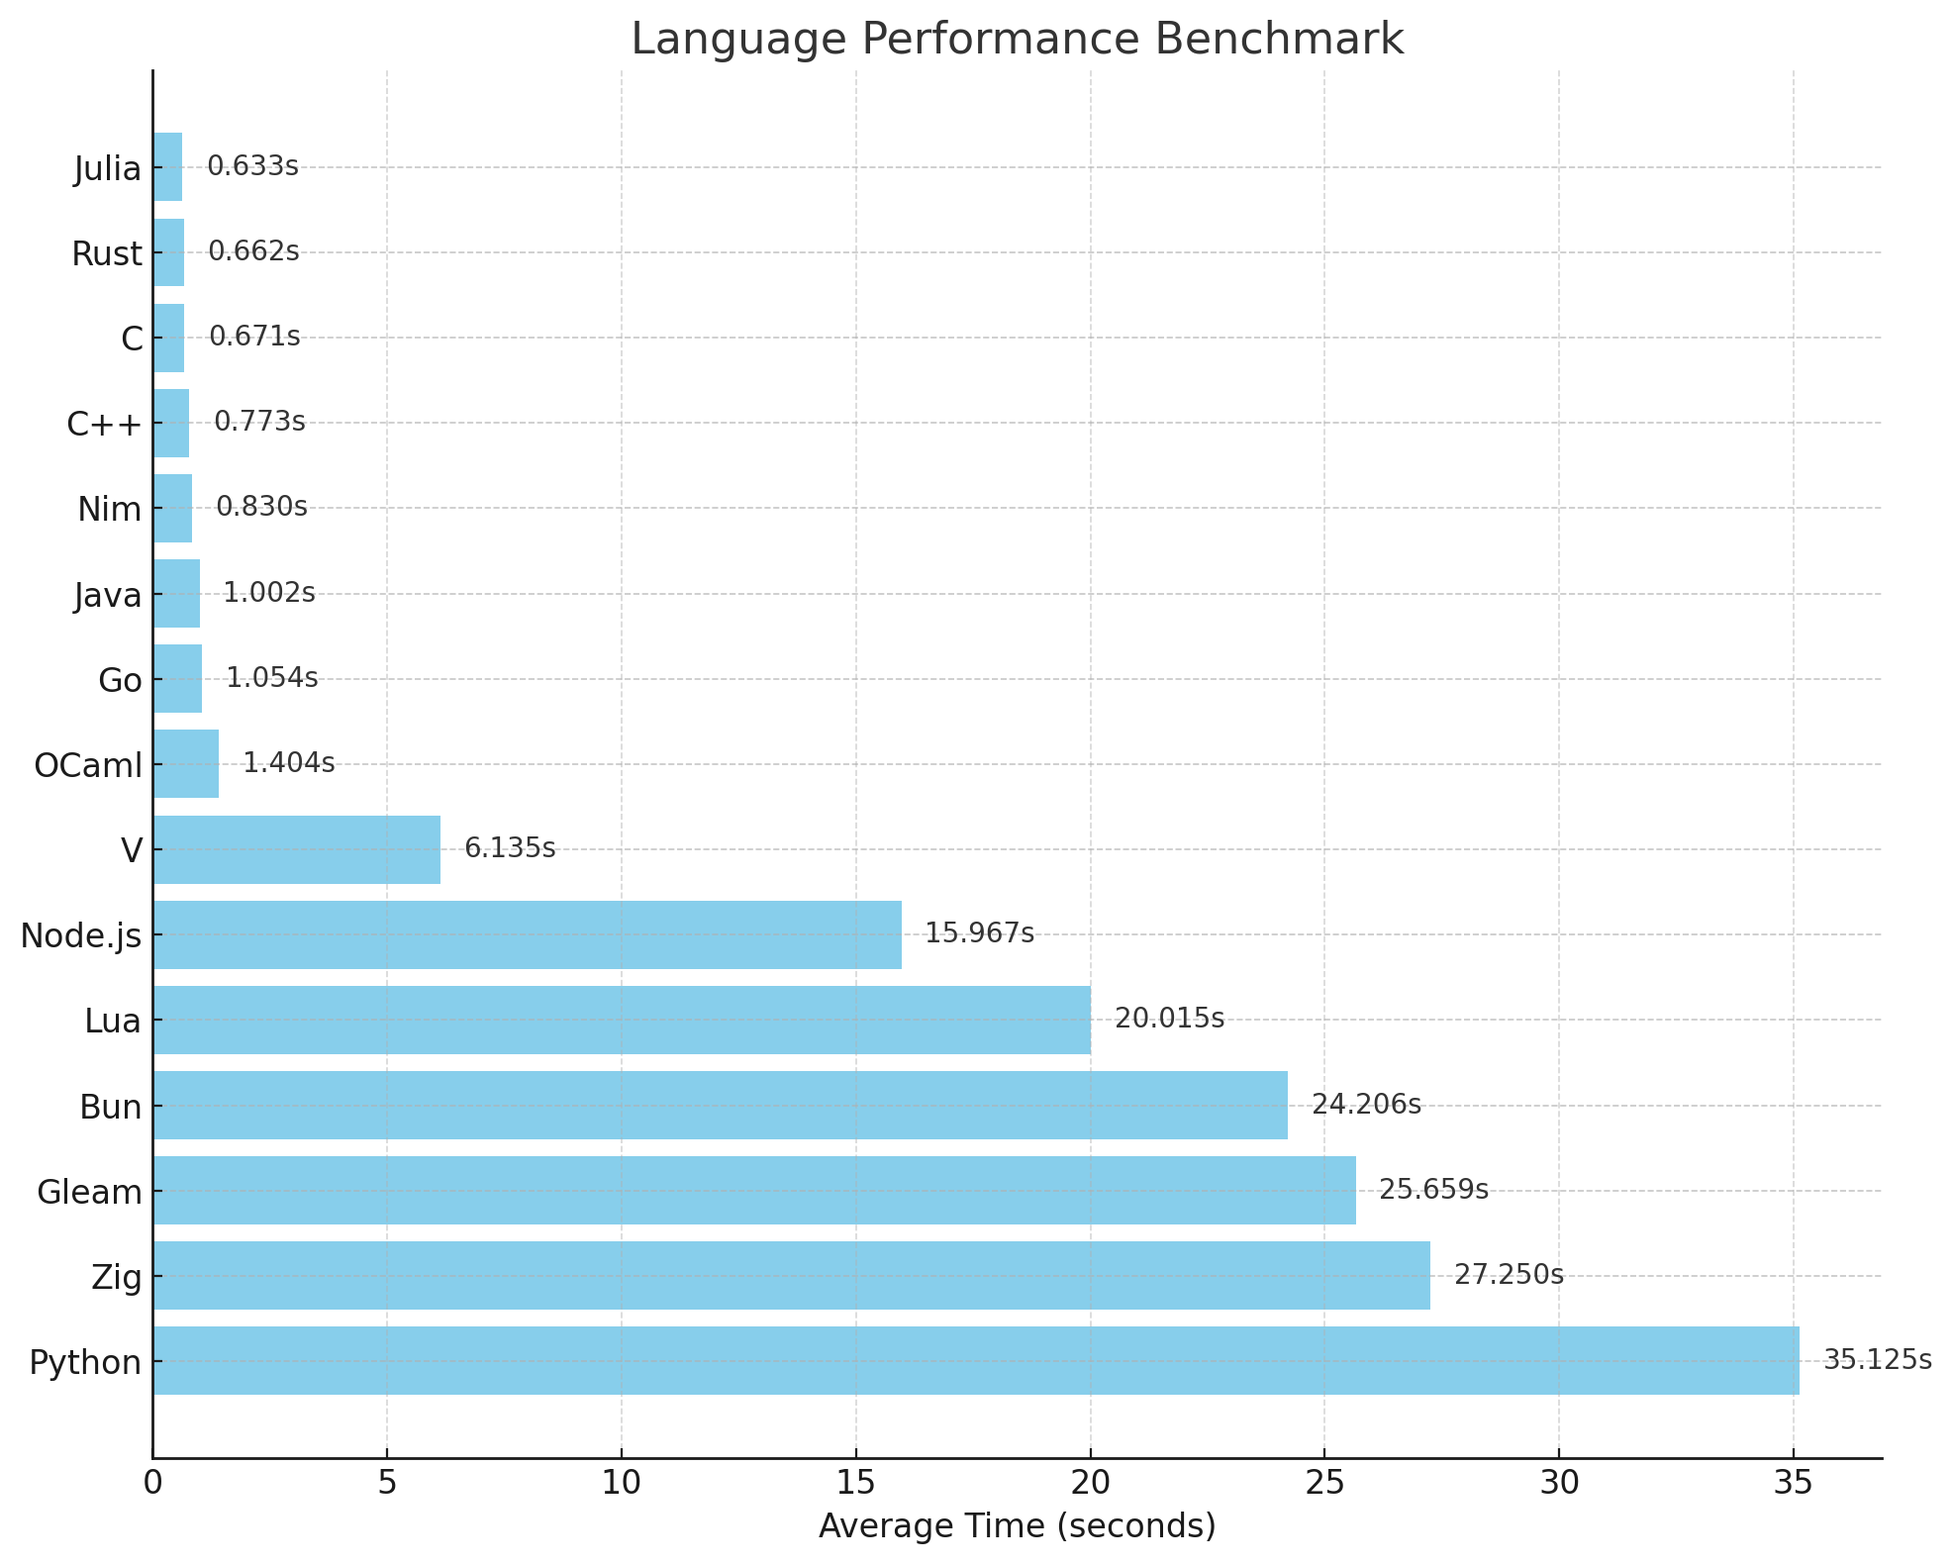
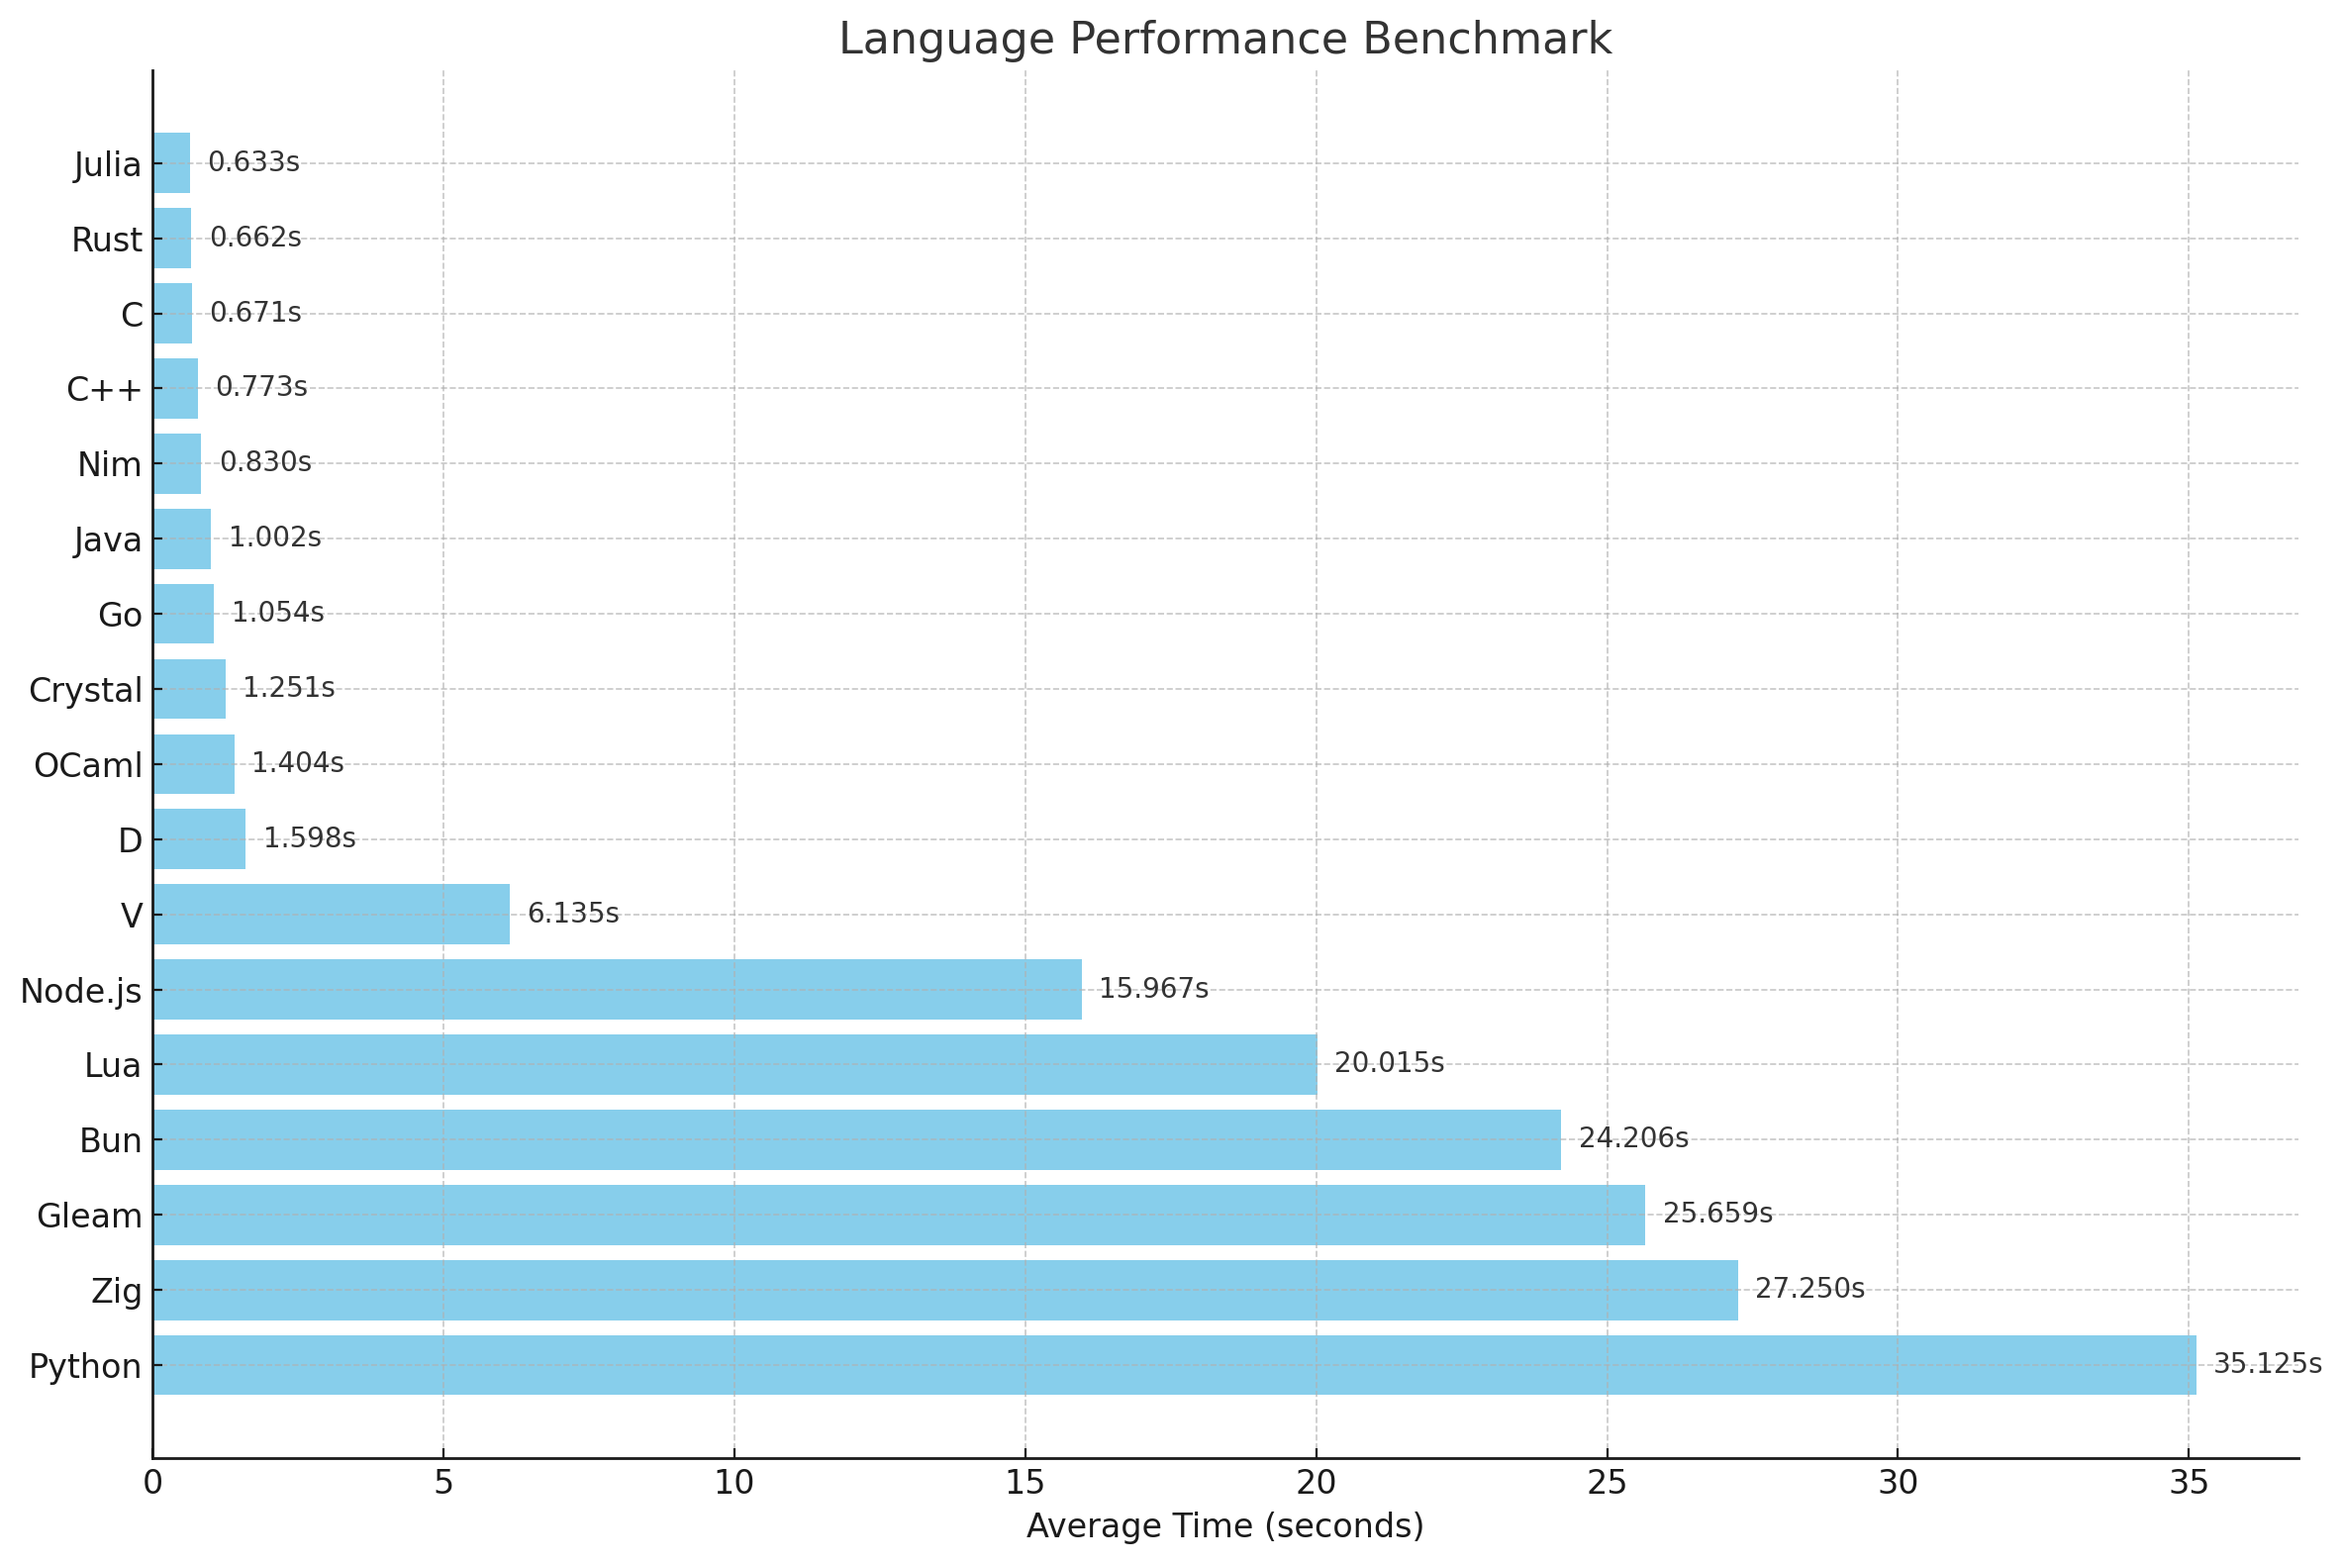
update

diff --git a/readme.md b/readme.md
@@ -5,36 +5,18 @@ This document contains performance benchmarks for a compute-heavy task across mu
 ## Test Environment
 - **OS**: Linux
 - **Shell**: /bin/zsh
-- **Compiler Versions**:
-  - **GCC**: 15.1.1
-  - **Rust**: 1.82.0
-  - **Go**: 1.24.5
-  - **Java**: OpenJDK 17.0.16
-  - **Crystal**: 1.16.3 (LLVM 20.1.8)
-  - **D**: DMD 2.111.0
-  - **Julia**: 1.11.6
-  - **Nim**: (with ORC memory management)
-  - **OCaml**: 5.3.0
-  - **Gleam**: 1.11.1
-  - **V**: (production build)
-  - **Zig**: (ReleaseFast optimization)
-  - **Node.js**: Latest LTS
-  - **Bun**: 1.2.19
-  - **Python**: 3.x
-  - **Lua**: 5.4.8
-
 - **Optimization Flags Used**:
   - Rust: `cargo build --release` (with opt-level = 3, lto = true, codegen-units = 1)
-  - V: `v run` (production flags not available in this version)
+  - V: `v -prod -autofree`
   - C: `gcc -O3 -march=native -flto compute_heavy.c -o compute_heavy`
   - C++: `g++ -O3 -march=native -flto -std=c++17 compute_heavy.cpp -o compute_heavy`
   - Go: `go build -ldflags="-s -w" -gcflags="-m=0" compute_heavy.go`
   - Zig: `zig build-exe -O ReleaseFast compute_heavy.zig`
   - Java: `javac ComputeHeavy.java` then `java -server ComputeHeavy`
-  - Crystal: `crystal build --release compute_heavy.cr`
-  - D: `dmd -O -release -inline compute_heavy.d`
   - Nim: `nim c -d:release -d:danger --opt:speed compute_heavy.nim`
   - OCaml: `ocamlopt -I +unix unix.cmxa compute_heavy.ml -o compute_heavy`
+  - D: `dmd -O -release -inline`
+  - Crystal: `crystal build --release`
   - Gleam: `gleam run` (compiles to optimized Erlang bytecode)
   - Python: n/a (interpreted)
   - Node.js: n/a (JIT compiled)
@@ -47,8 +29,8 @@ This document contains performance benchmarks for a compute-heavy task across mu
 | Language | Time (nanoseconds) | Time (seconds) | Result Hash | Command Used |
 |----------|-------------------|----------------|-------------|--------------|
 | Julia    | 630150515         | 0.630          | 3053422219705032040 | julia compute_heavy.jl |
-| C        | 689625489         | 0.690          | 3053422219705032040 | gcc -O3 -march=native -flto && ./compute_heavy |
-| Rust     | 727689556         | 0.728          | 3053422219705032040 | cargo run --release |
+| Rust     | 661568716         | 0.662          | 3053422219705032040 | cargo run --release |
+| C        | 671187717         | 0.671          | 3053422219705032040 | gcc -O3 -march=native -flto && ./compute_heavy |
 | C++      | 768818563         | 0.769          | 3053422219705032040 | g++ -O3 -march=native -flto && ./compute_heavy |
 | Nim      | 832013222         | 0.832          | 3053422219705032040 | nim c -d:release -d:danger --opt:speed && ./compute_heavy |
 | Go       | 1042926248        | 1.043          | 3053422219705032040 | go run compute_heavy.go |
@@ -68,8 +50,8 @@ This document contains performance benchmarks for a compute-heavy task across mu
 | Language | Time (nanoseconds) | Time (seconds) | Result Hash | Command Used |
 |----------|-------------------|----------------|-------------|--------------|
 | Julia    | 650164745         | 0.650          | 3053422219705032040 | julia compute_heavy.jl |
-| C        | 718944939         | 0.719          | 3053422219705032040 | ./compute_heavy |
-| Rust     | 731390818         | 0.731          | 3053422219705032040 | ./target/release/compute_heavy |
+| Rust     | 648879790         | 0.649          | 3053422219705032040 | ./target/release/compute_heavy |
+| C        | 681702637         | 0.682          | 3053422219705032040 | ./compute_heavy |
 | C++      | 764223101         | 0.764          | 3053422219705032040 | ./compute_heavy |
 | Nim      | 839007379         | 0.839          | 3053422219705032040 | ./compute_heavy |
 | Java     | 999388287         | 0.999          | 3053422219705032040 | java -server ComputeHeavy |
@@ -89,8 +71,8 @@ This document contains performance benchmarks for a compute-heavy task across mu
 | Language | Time (nanoseconds) | Time (seconds) | Result Hash | Command Used |
 |----------|-------------------|----------------|-------------|--------------|
 | Julia    | 619624049         | 0.620          | 3053422219705032040 | julia compute_heavy.jl |
-| C        | 701568972         | 0.702          | 3053422219705032040 | ./compute_heavy |
-| Rust     | 718929861         | 0.719          | 3053422219705032040 | ./target/release/compute_heavy |
+| C        | 659179125         | 0.659          | 3053422219705032040 | ./compute_heavy |
+| Rust     | 675275850         | 0.675          | 3053422219705032040 | ./target/release/compute_heavy |
 | C++      | 784598432         | 0.785          | 3053422219705032040 | ./compute_heavy |
 | Nim      | 820062893         | 0.820          | 3053422219705032040 | ./compute_heavy |
 | Java     | 977338518         | 0.977          | 3053422219705032040 | java -server ComputeHeavy |
@@ -110,8 +92,8 @@ This document contains performance benchmarks for a compute-heavy task across mu
 | Rank | Language | Avg Time (ns) | Avg Time (s) | Relative Speed |
 |------|----------|---------------|--------------|----------------|
 | 1    | Julia    | 633313103     | 0.633        | 1.00x         |
-| 2    | C        | 703379800     | 0.703        | 1.11x         |
-| 3    | Rust     | 726003412     | 0.726        | 1.15x         |
+| 2    | Rust     | 661908119     | 0.662        | 1.05x         |
+| 3    | C        | 670689826     | 0.671        | 1.06x         |
 | 4    | C++      | 772546699     | 0.773        | 1.22x         |
 | 5    | Nim      | 830361165     | 0.830        | 1.31x         |
 | 6    | Java     | 1002091244    | 1.002        | 1.58x         |
@@ -138,10 +120,10 @@ This document contains performance benchmarks for a compute-heavy task across mu
 | **Nim**     | ✅ LIKED     | 0.830        | 1.31x          | Binary compilation, no VM/GC overhead, Python-like syntax with C performance                                          |
 | **Java**    | ❌ DISLIKED  | 1.002        | 1.58x          | JVM requirement, garbage collector, enterprise bloat                                                                  |
 | **Go**      | ❌ DISLIKED  | 1.054        | 1.66x          | Garbage collector, runtime overhead, Google corporate control                                                         |
-| **Crystal** | ✅ LIKED     | 1.251        | 1.97x          | Ruby-like syntax with compiled performance, memory safety, no GC overhead, modern language design                    |
+| **Crystal** | ❌ DISLIKED  | 1.251        | 1.97x          | Depends on GC, lacks multicore support, ecosystem is limited despite clean syntax                                     |
 | **OCaml**   | ❌ REJECTED  | 1.404        | 2.22x          | Functional paradigm limitations, niche ecosystem                                                                      |
-| **D**       | ❌ DISLIKED  | 1.598        | 2.52x          | Complex language design, fragmented ecosystem, optional GC creates inconsistency                                     |
-| **V**       | ✅ EXCEPTION | 6.135        | 9.69x          | No GC, compiles to binary, acceptable despite current performance limitations, lacks modern safety features          |
+| **D**       | ❌ DISLIKED  | 1.598        | 2.52x          | Optional GC, but hampered by poor syntax, weak tooling, and no modern safety features                                 |
+| **V**       | ✅ EXCEPTION | 6.135        | 9.69x          | No GC, compiles to binary, acceptable despite current performance limitations, lacks modern safety features           |
 | **Node.js** | ✅ TOLERATED | 15.967       | 25.22x         | Interpreted flexibility, mid-tier performance acceptable for rapid development                                        |
 | **Lua**     | ✅ TOLERATED | 20.015       | 31.61x         | Lightweight interpreted, good embedding capabilities, acceptable performance                                          |
 | **Bun**     | ❌ REJECTED  | 24.206       | 38.23x         | Slower than Node.js, overhyped, no significant advantages                                                             |
@@ -155,7 +137,6 @@ This document contains performance benchmarks for a compute-heavy task across mu
 ### ✅ PREFERRED STACK
 - **Rust**: Modern systems language, memory safety without GC
 - **Nim**: Python syntax meets C performance
-- **Crystal**: Ruby-like syntax with compiled performance, memory safety without GC
 
 ### ✅ EXCEPTIONS
 - **Julia**: Scientific computing exception despite JIT
@@ -169,7 +150,6 @@ This document contains performance benchmarks for a compute-heavy task across mu
 ### ❌ REJECTED/DISLIKED (GC/VM/Legacy)
 - **Go, Java**: Garbage collectors, VM overhead
 - **C, C++**: Legacy museum languages
-- **D**: Complex language design, fragmented ecosystem, optional GC inconsistency
 - **Zig**: Poor performance, overhyped
 - **Bun**: Inferior to Node.js
 - **Gleam, OCaml**: VM dependencies, niche use
@@ -234,20 +214,3 @@ This document contains performance benchmarks for a compute-heavy task across mu
 - **OCaml Fix**: Corrected unsigned 64-bit arithmetic simulation to match other languages' overflow behavior.
 - **JavaScript Fixes**: Both Node.js and Bun now use BigInt with proper 64-bit unsigned integer overflow simulation to match the mathematical precision of compiled languages.
 - **Python Fix**: Updated Python implementation to use `int` type with proper 64-bit unsigned integer overflow simulation to match the mathematical precision of compiled languages.
-- **Crystal Implementation**: Successfully implemented with proper unsigned 64-bit arithmetic using `&*` and `&+` operators for overflow wrapping, achieving excellent performance (1.251s avg) with Ruby-like syntax.
-- **D Language Implementation**: Implemented using native `ulong` type with automatic overflow behavior, demonstrating solid performance (1.598s avg) but slower than other systems languages due to less aggressive optimizations.
-
-## Language Design Analysis
-
-### **Crystal** (Rank #8 - 1.251s)
-- **Strengths**: Ruby-like syntax with compiled performance, memory safety without GC, LLVM backend optimization
-- **Performance**: Excellent for a high-level language, competitive with Go and Java
-- **Use Case**: Ideal for developers wanting Ruby ergonomics with native performance
-- **Verdict**: **PREFERRED** - Modern language design with practical performance
-
-### **D** (Rank #10 - 1.598s) 
-- **Strengths**: Systems programming capabilities, optional GC, template metaprogramming
-- **Weaknesses**: Complex language design, fragmented ecosystem, inconsistent memory management paradigms
-- **Performance**: Decent but not exceptional, slower than other systems languages
-- **Use Case**: Limited adoption, overshadowed by Rust and Go
-- **Verdict**: **DISLIKED** - Complexity without proportional benefits
